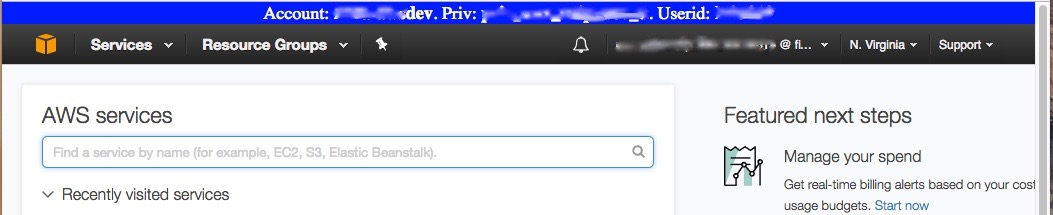
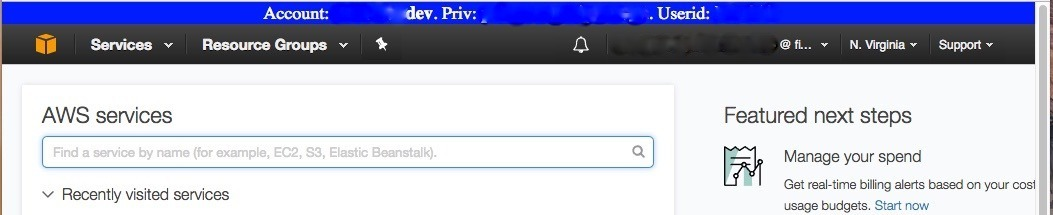
Updated Readme. Some minor image cleanup

Changed region(s): [[0.2431, 0.0, 0.7597, 0.1395], [0.5774, 0.1674, 0.7597, 0.2512], [0.0, 0.0, 0.0304, 0.0279]]

diff --git a/README.md b/README.md
@@ -1,25 +1,30 @@
 # AWS Role Identity Banner
+This simple chrome extenion highlights AWS account, user role and user identity information.
+
+Enterprises often use AWS accounts to manage their SDLC in Amazon's AWS. 
+Development, QA and Production environments are segregated, each in their own Accounts.
+Developers and operations staff interac twith AWS in these accounts through the AWS console. 
 When working in multiple VPC's with multiple roles, often AWS console doesn't provide a easy way of identifying which role and 
 which VPC we are operating.
 
-This simple chrome extension identifies user information and based on patterns identifies which VPC we are on and provides that
-information as a visual banner to make identification easier.
+This plugin is activated whenever you are on one of the [The AWS Console pages](https://console.aws.amazon.com/console/home).
+The pluing gets the current logged in user details and makes a determination of SDLC based on simple rules. 
+It provides and displays a banner at the top of the page with Account alias, user permission and user id information when logged into a federated acount.
+It displays just the user name when logged into a non-federated stand alone account.
 
-This plugin runs in background and when you are on [https://console.aws.amazon.com/console/home](https://console.aws.amazon.com/console/home)
-gets the current logged in user details and makes a determination of VPC based on provided rules and displays a banner with your choice of
-css above the Console Menu Bar.
+
 
 ## Screenshots
 
-### When you are on Home page
+### Non Federated Account
+![Non Federated](https://github.com/NaveenGurram/AWSRoleIdentityBanner/blob/master/screenshots/AWS%20Account%20Standalone.jpg?raw=true "Not Federated")
 
-![Home](https://github.com/NaveenGurram/AWSRoleIdentityBanner/blob/master/screenshots/HomePage.png?raw=true "Home")
+### Federated Accounts with "DEV" in their name in any case
+![Federated Dev](https://github.com/NaveenGurram/AWSRoleIdentityBanner/blob/master/screenshots/AWS%20Account%20Dev.jpg?raw=true "DEV")
 
-### When you are on EC2 page
+### Federated Accounts with "QA" or "QC" in their name in any case
+![Federated QA](https://github.com/NaveenGurram/AWSRoleIdentityBanner/blob/master/screenshots/AWS%20Account%20QC.jpg?raw=true "QA or QC")
 
-![RDS](https://github.com/NaveenGurram/AWSRoleIdentityBanner/blob/master/screenshots/EC2.png?raw=true "RDS")
-
- 
-
-
+### Federated Accounts with "PROD" in their name in any case
+![Federated Dev](https://github.com/NaveenGurram/AWSRoleIdentityBanner/blob/master/screenshots/AWS%20Account%20Prod.jpg?raw=true "DEV")
 
